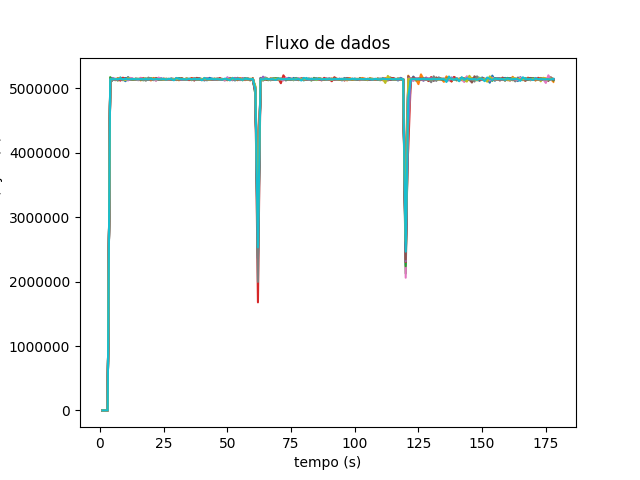
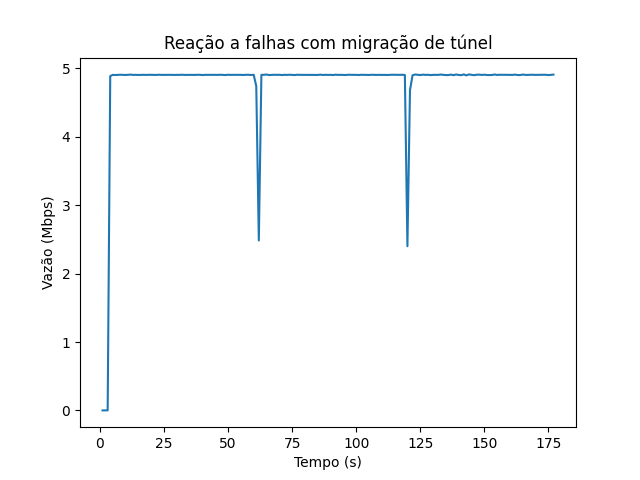
Script gráfico test2

diff --git a/artigo/test2/run5.py b/artigo/test2/run5.py
@@ -1,10 +1,13 @@
 import matplotlib.pyplot as plt
+import numpy
 
 run=5
 #csv output format: Type rate:
 #unix timestamp;iface_name;bytes_out/s;bytes_in/s;bytes_total/s;bytes_in;bytes_out;packets_out/s;packets_in/s;packets_total/s;packets_in;packets_out;errors_out/s;errors_in/s;errors_in;errors_out\n
 
-for taxa in range(10, 50, 10):
+for taxa in [40]:
+	x = []
+	y = []
 	for sample in range(1, 21):
 		arq=f'data/run{run}/{taxa}/a{sample}.csv'
 		print(arq)
@@ -12,24 +15,28 @@ for taxa in range(10, 50, 10):
 		linhas=f.readlines()
 		f.close()
 
-		y=[]
-		x=[]
 		cont=1
 		for dado in linhas:
-			x.append(cont)
-			cont=cont+1
+			if sample == 1:
+				x.append(cont)
+				y.append([])
 			b=dado.split(',')[2]
 			fb=float(b)/1024/1024
-			if cont==20:
-				print(fb)
-			y.append(float(b))
-		plt.plot(x, y)
-		print(f'a{sample}: OK')
-	plt.xlabel('tempo (s)') 
-	plt.ylabel('taxa de transferência (bytes/s)') 
-	plt.title(f'Fluxo de dados')
-	current_values = plt.gca().get_yticks().tolist()
-	plt.gca().set_yticklabels(['{:.0f}'.format(x) for x in current_values])
+			print(cont-1)
+			y[cont-1].append(fb)
+			cont=cont+1
+			if cont > 177:
+				break
+	m=[]
+	for cont in range(0,len(y)):
+		m.append(numpy.mean(y[cont]))
+	plt.plot(x, m)
+	print(f'a{sample}: OK')
+	plt.xlabel('Tempo (s)') 
+	plt.ylabel('Vazão (Mbps)') 
+	plt.title(f'Reação a falhas com migração de túnel')
+	#current_values = plt.gca().get_yticks().tolist()
+	#plt.gca().set_yticklabels(['{:.0f}'.format(x) for x in current_values])
 	plt.savefig(f'results/run{run}/{taxa}.png')
 	plt.clf()
 

diff --git a/artigo/test1/grafico.py b/artigo/test1/grafico.py
@@ -16,7 +16,6 @@ for sample in range(0,6):
 		y[cont].append(float(ms))
 		cont=cont+1
 m=[]
-d=[]
 for cont in range(0,len(y)):
 	m.append(numpy.mean(y[cont]))
 
